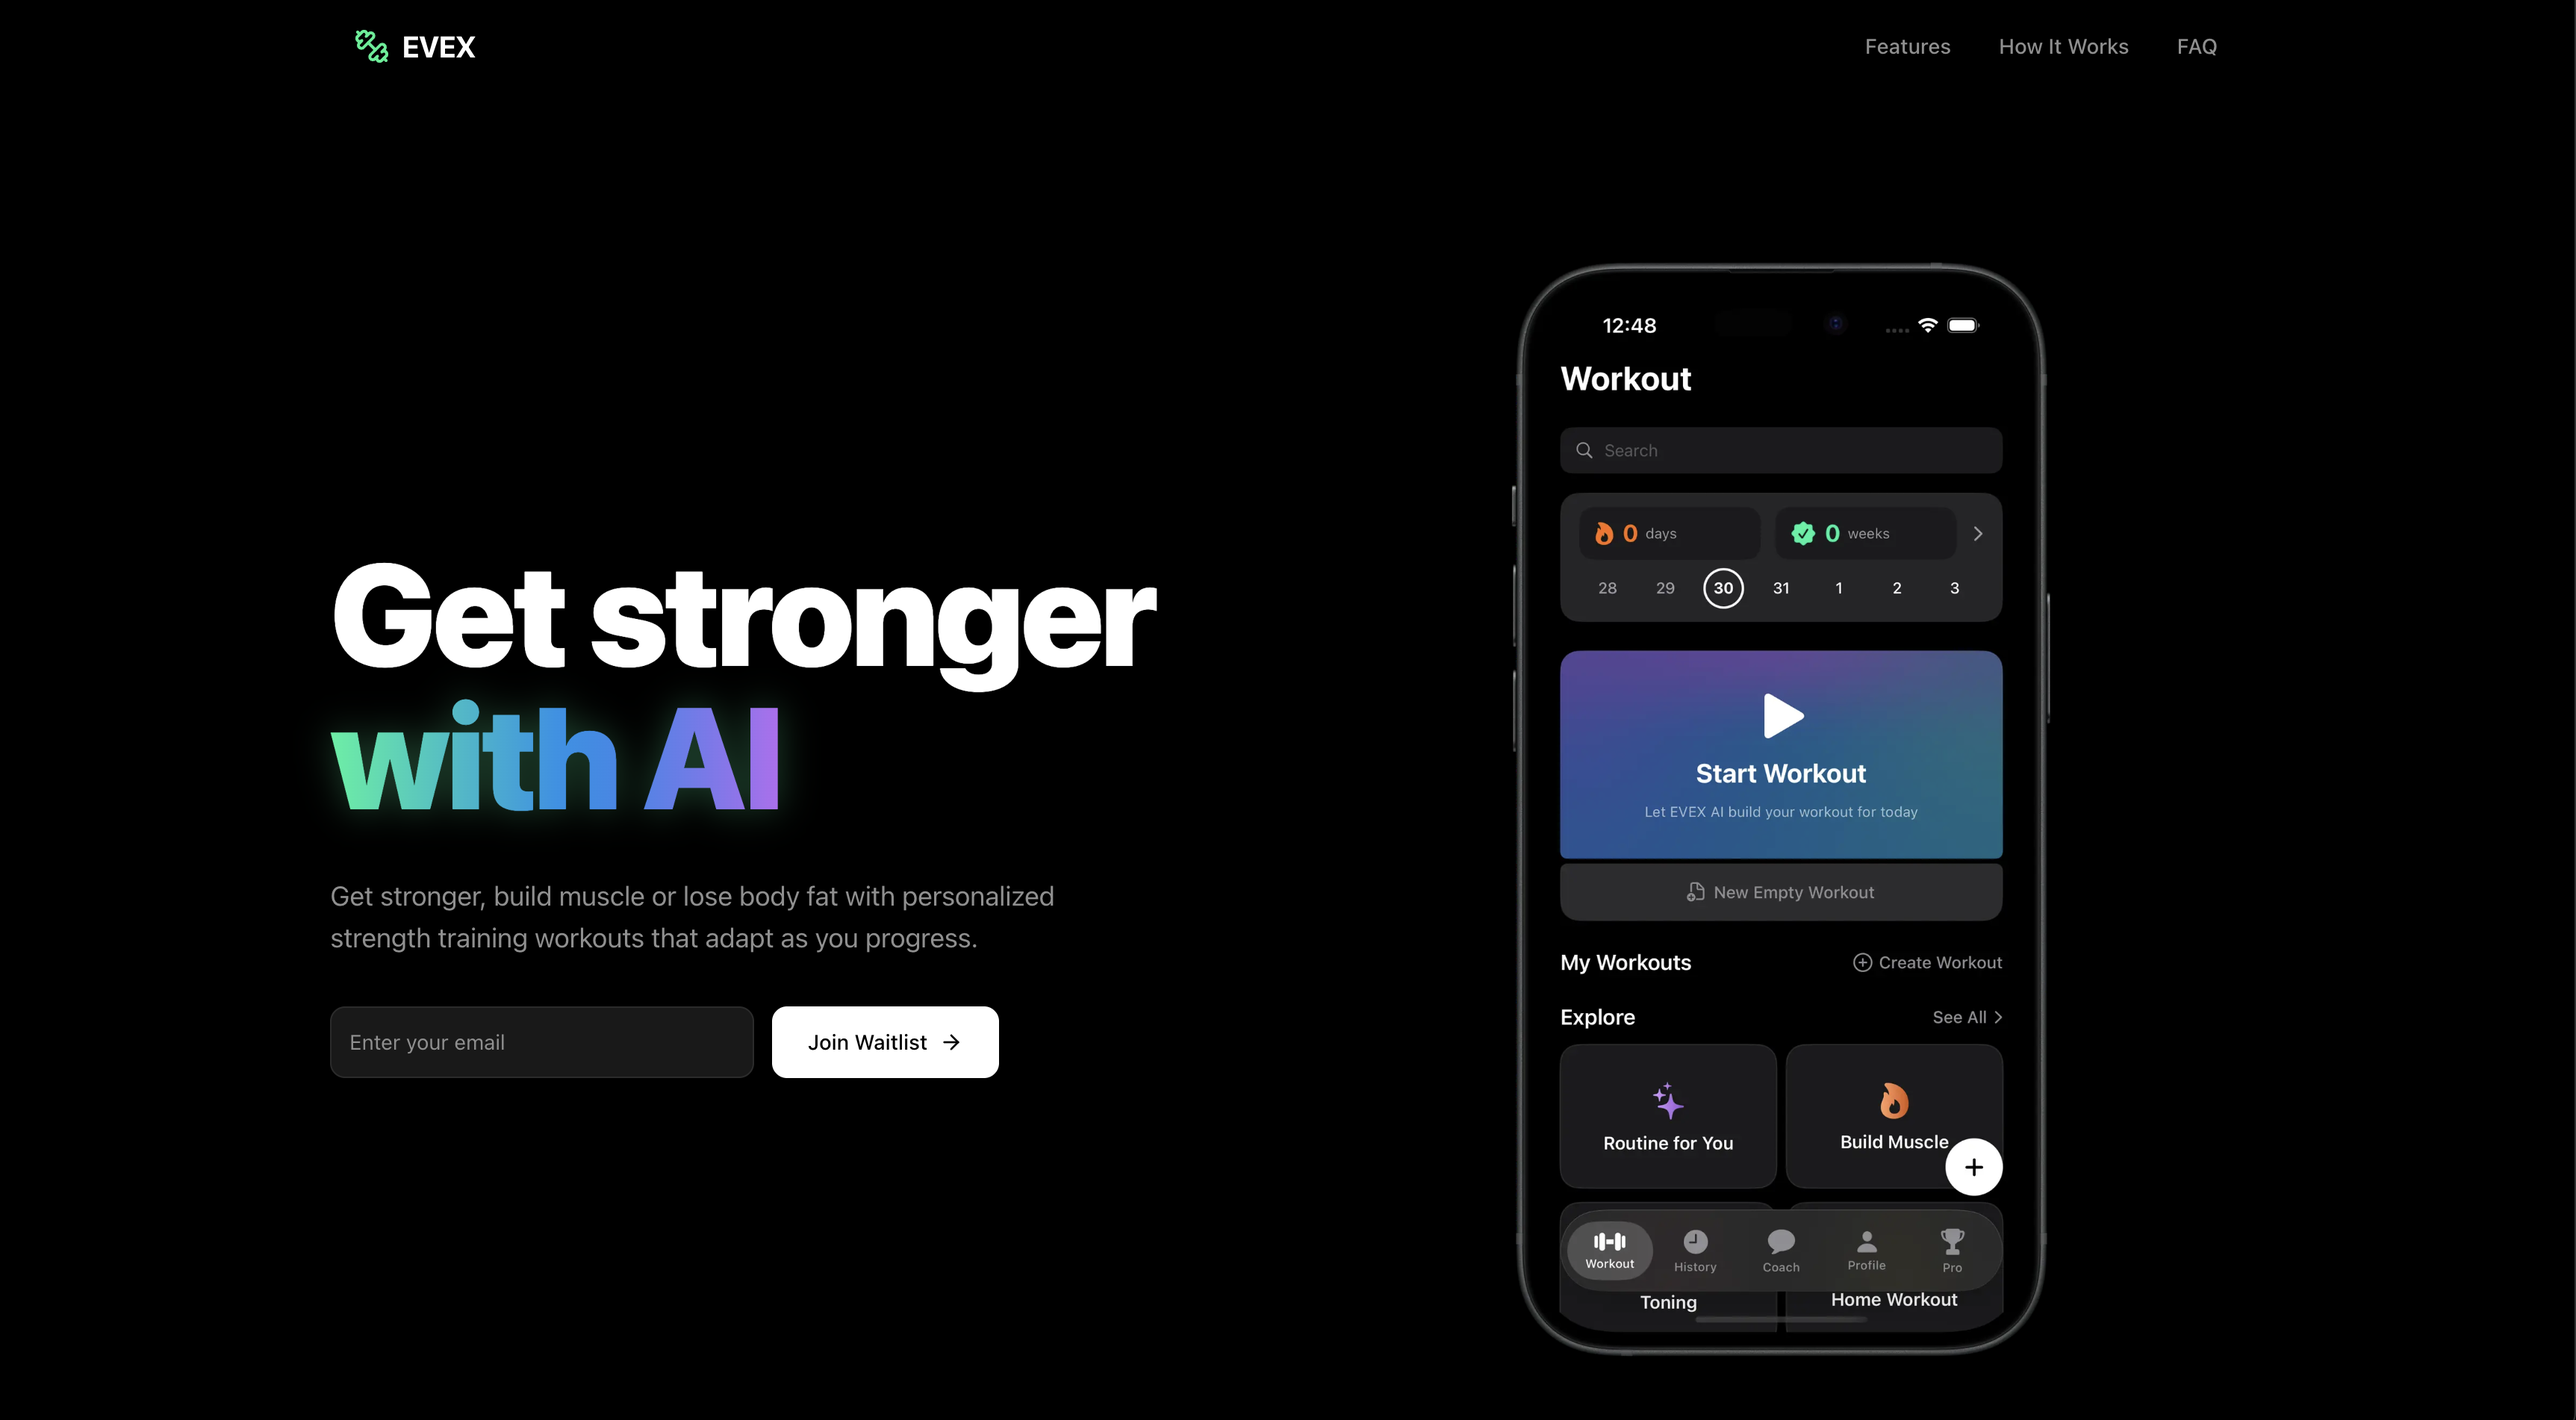
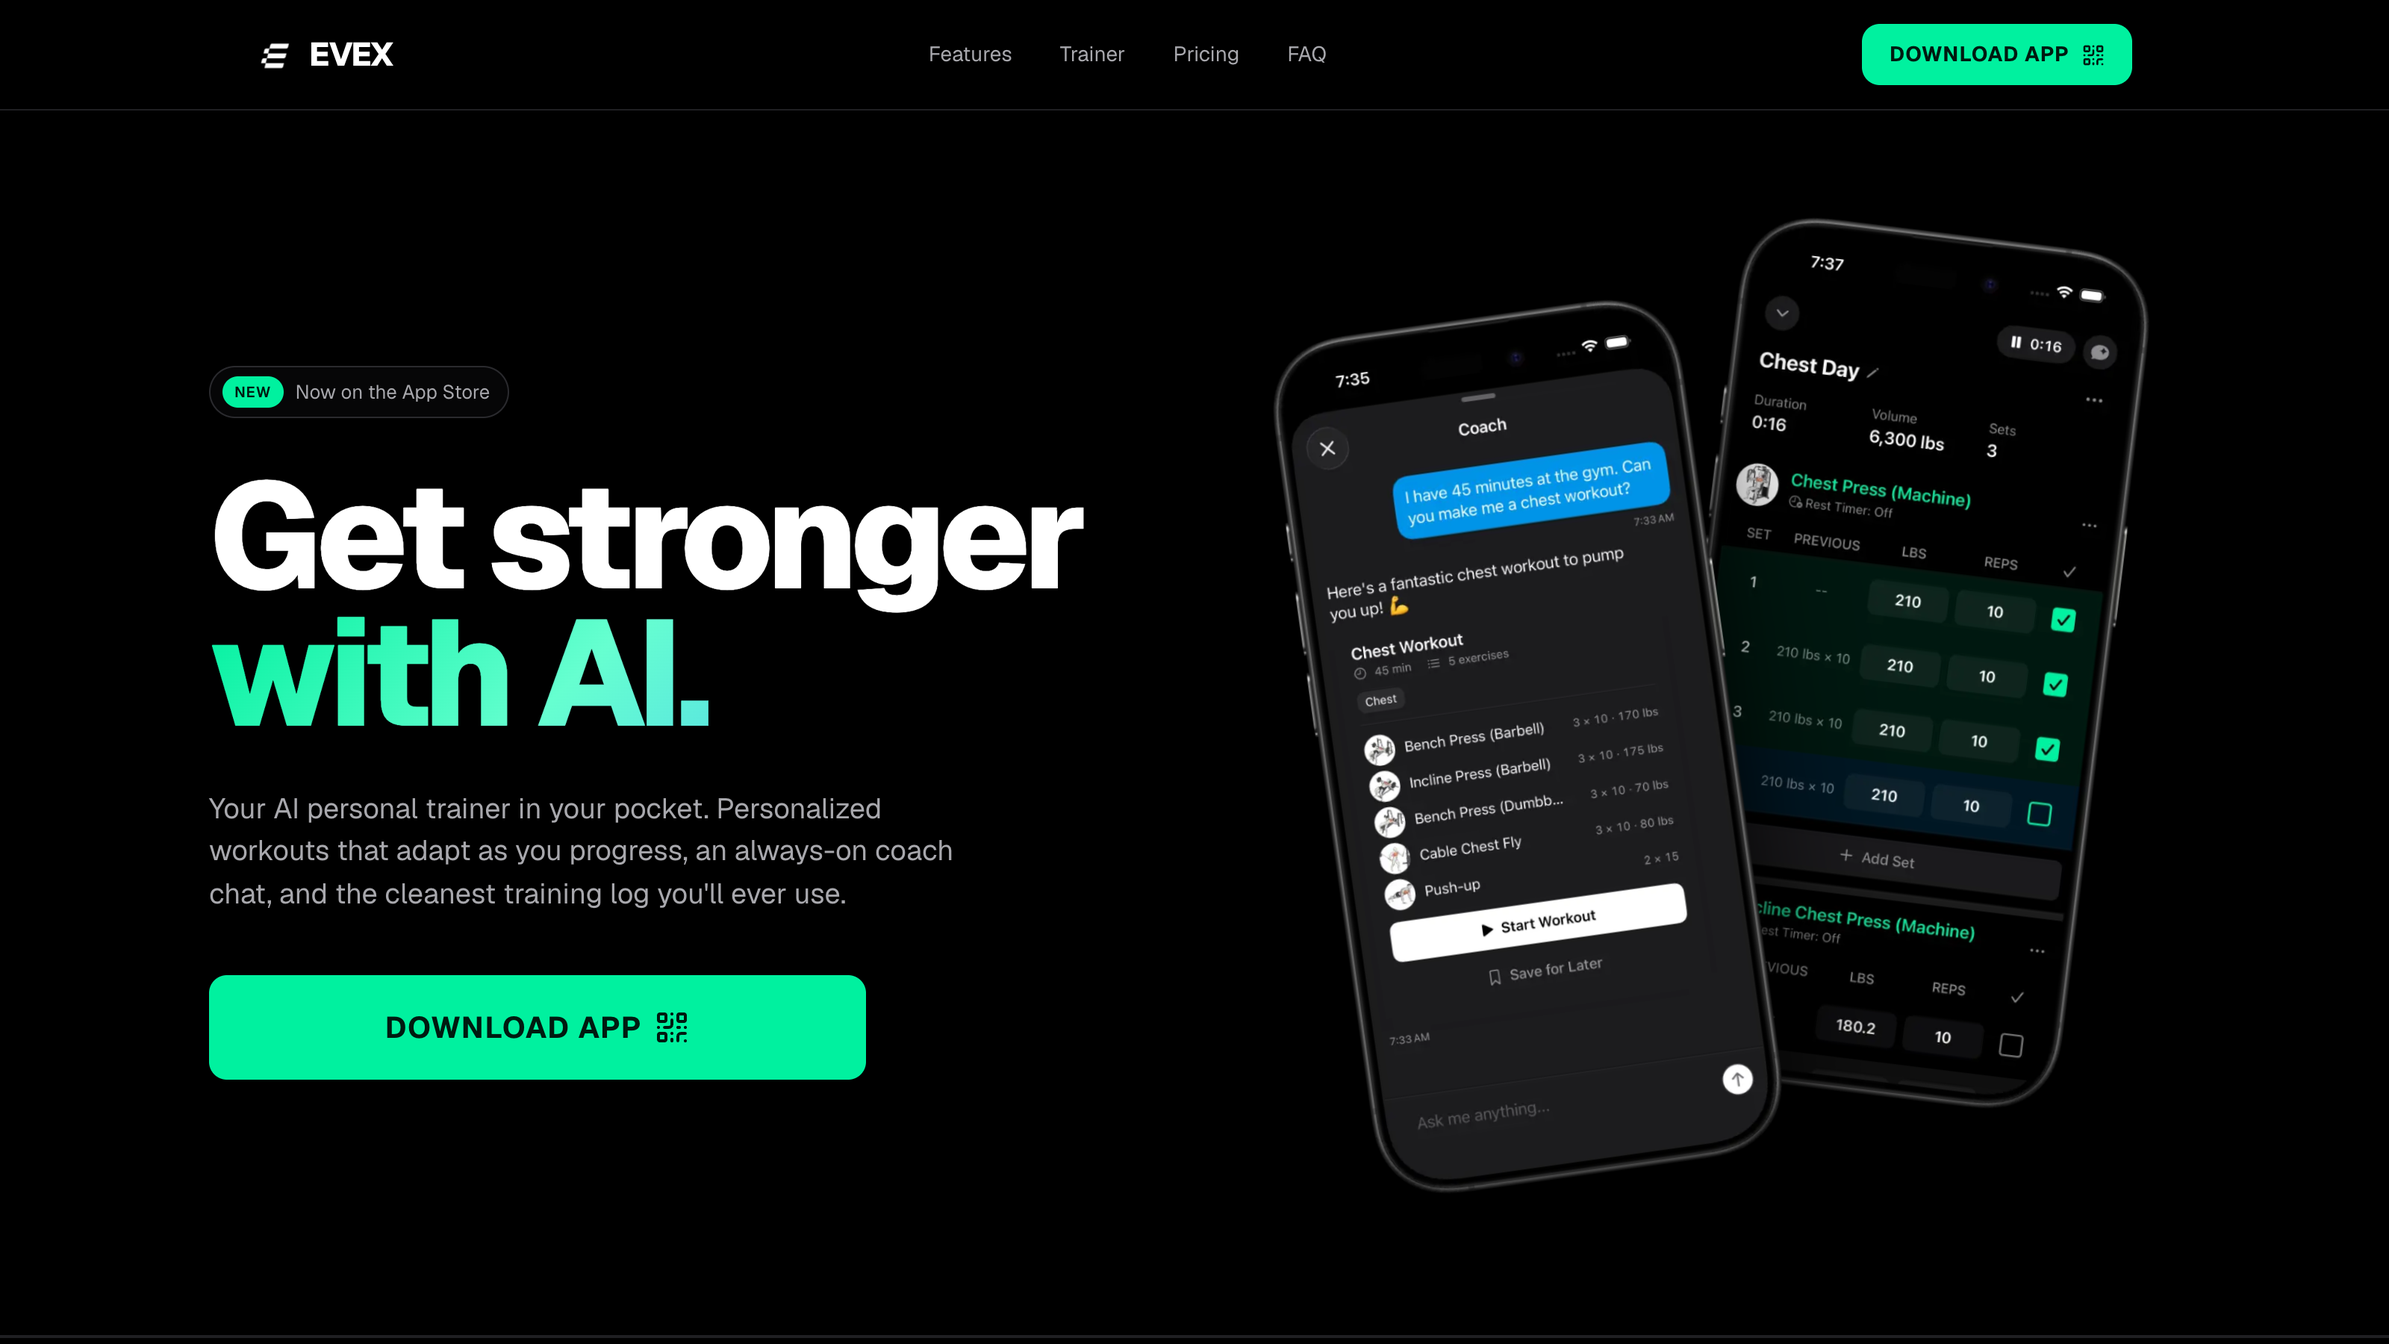
Fix Strava graph error handling, projects spacing, and EVEX screenshot
- Strava: surface API failures instead of rendering a fake-empty graph.
  Root cause of the broken graph is Strava's June 2026 Developer Program
  change - the API app is deactivated (403 Application Status: Inactive)
  until the owner has an active Strava subscription. The route now
  returns a real error and the Running section hides itself until data
  is available. Documented the fix in STRAVA_SETUP.md.
- Projects: remove reserved space for the hover-only external-link icon
  that left a gap between the project title and the description dash.
- Update EVEX screenshot to the current evexapp.com hero (16:9 @2x).

Claude-Session: https://claude.ai/code/session_018PXP135FfrijHYk1D5c3r7

diff --git a/src/components/Projects.tsx b/src/components/Projects.tsx
@@ -1,5 +1,4 @@
 import { projects } from "@/data/projects";
-import { ExternalLink } from "lucide-react";
 import Link from "next/link";
 
 export function Projects({ limit }: { limit?: number }) {
@@ -16,20 +15,16 @@ export function Projects({ limit }: { limit?: number }) {
           const link =
             project.demoUrl || project.codeUrl || project.videoUrl || "#";
           return (
-            <div key={project.title} className="group">
+            <div key={project.title}>
               <div className="flex items-baseline justify-between gap-4">
                 <div className="flex-1 min-w-0">
                   <a
                     href={link}
                     target="_blank"
                     rel="noopener noreferrer"
-                    className="inline-flex items-center gap-1.5 font-medium text-sm hover:underline"
+                    className="font-medium text-sm hover:underline"
                   >
                     {project.title}
-                    <ExternalLink
-                      size={12}
-                      className="opacity-0 transition-opacity group-hover:opacity-100"
-                    />
                   </a>
                   <span className="text-sm text-[#a1a1aa]">
                     {" "}

diff --git a/src/components/StravaGrid.tsx b/src/components/StravaGrid.tsx
@@ -230,6 +230,7 @@ function Tooltip({
 
 export function StravaGrid() {
   const [data, setData] = useState<StravaData | null>(null);
+  const [failed, setFailed] = useState(false);
   const [hovered, setHovered] = useState<{
     day: DayData;
     el: HTMLDivElement;
@@ -237,12 +238,21 @@ export function StravaGrid() {
 
   useEffect(() => {
     fetch("/api/strava")
-      .then((res) => res.json())
-      .then(setData)
-      .catch(() => setData(null));
+      .then((res) => {
+        if (!res.ok) throw new Error(`HTTP ${res.status}`);
+        return res.json();
+      })
+      .then((d) => {
+        if (d && d.weeks) setData(d);
+        else setFailed(true);
+      })
+      .catch(() => setFailed(true));
   }, []);
 
-  if (!data || !data.weeks) {
+  // Hide the section entirely if Strava data can't be loaded
+  if (failed) return null;
+
+  if (!data) {
     return (
       <section className="py-12">
         <div className="section-divider mb-8" />

diff --git a/src/app/api/strava/route.ts b/src/app/api/strava/route.ts
@@ -61,6 +61,10 @@ export async function GET() {
         `https://www.strava.com/api/v3/athlete/activities?after=${after}&per_page=200&page=${page}`,
         { headers: { Authorization: `Bearer ${accessToken}` } }
       );
+      if (!res.ok) {
+        const body = await res.text();
+        throw new Error(`Strava activities request failed (${res.status}): ${body}`);
+      }
       const data = await res.json();
       if (!Array.isArray(data) || !data.length) break;
       activities.push(...data);

diff --git a/STRAVA_SETUP.md b/STRAVA_SETUP.md
@@ -6,6 +6,14 @@ The Strava API is **free** for personal use. You get:
 
 More than enough for a portfolio site.
 
+> ⚠ **June 2026 Developer Program change:** Strava now requires the account that owns
+> the API application to have an active Strava subscription (Standard Tier). Apps whose
+> owners don't have one were deactivated on June 30, 2026 — every data endpoint returns
+> `403 {"errors":[{"resource":"Application","field":"Status","code":"Inactive"}]}` even
+> though the OAuth token refresh still succeeds. To fix: subscribe (or redeem the 3-month
+> voucher Strava emailed developers on June 16, 2026, subject "Strava API Update"), then
+> reactivate the app at [strava.com/settings/api](https://www.strava.com/settings/api).
+
 ## Step 1: Create a Strava API Application
 
 1. Go to [https://www.strava.com/settings/api](https://www.strava.com/settings/api)
